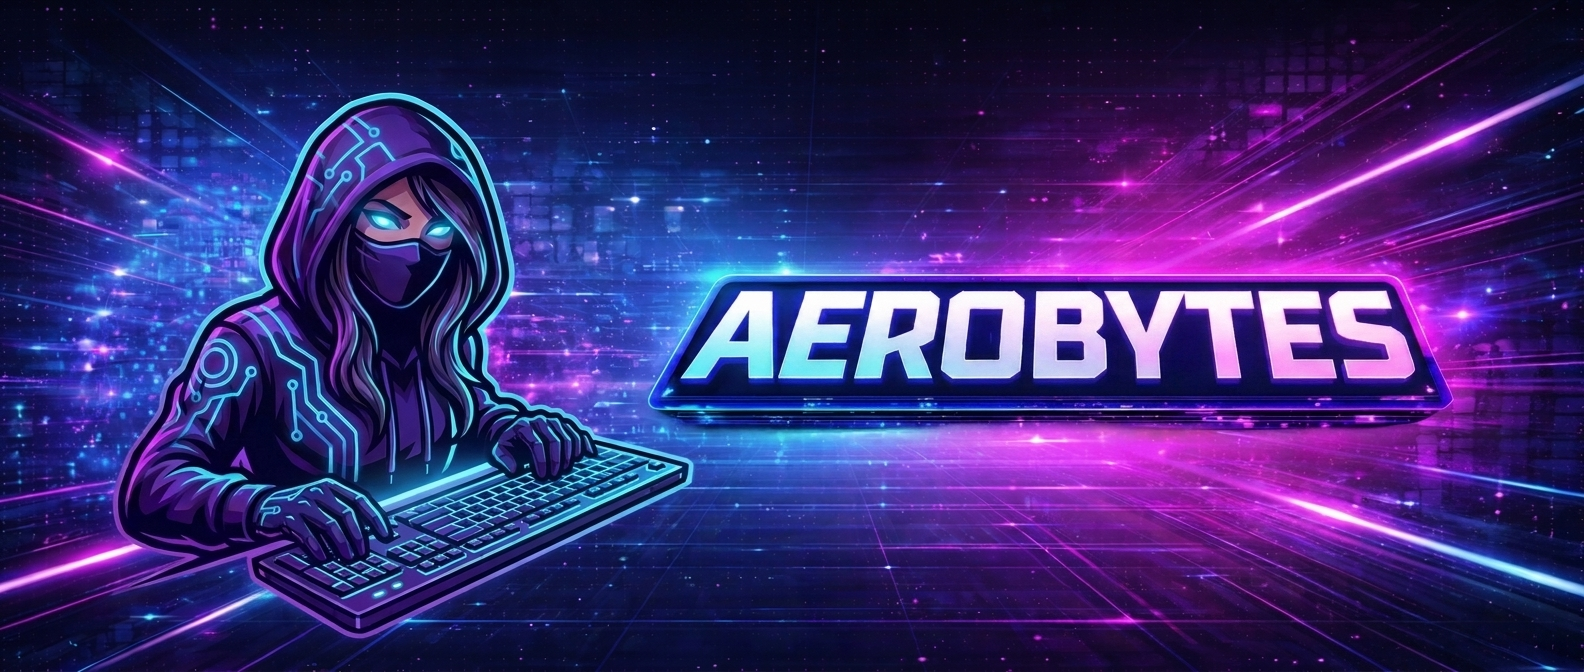
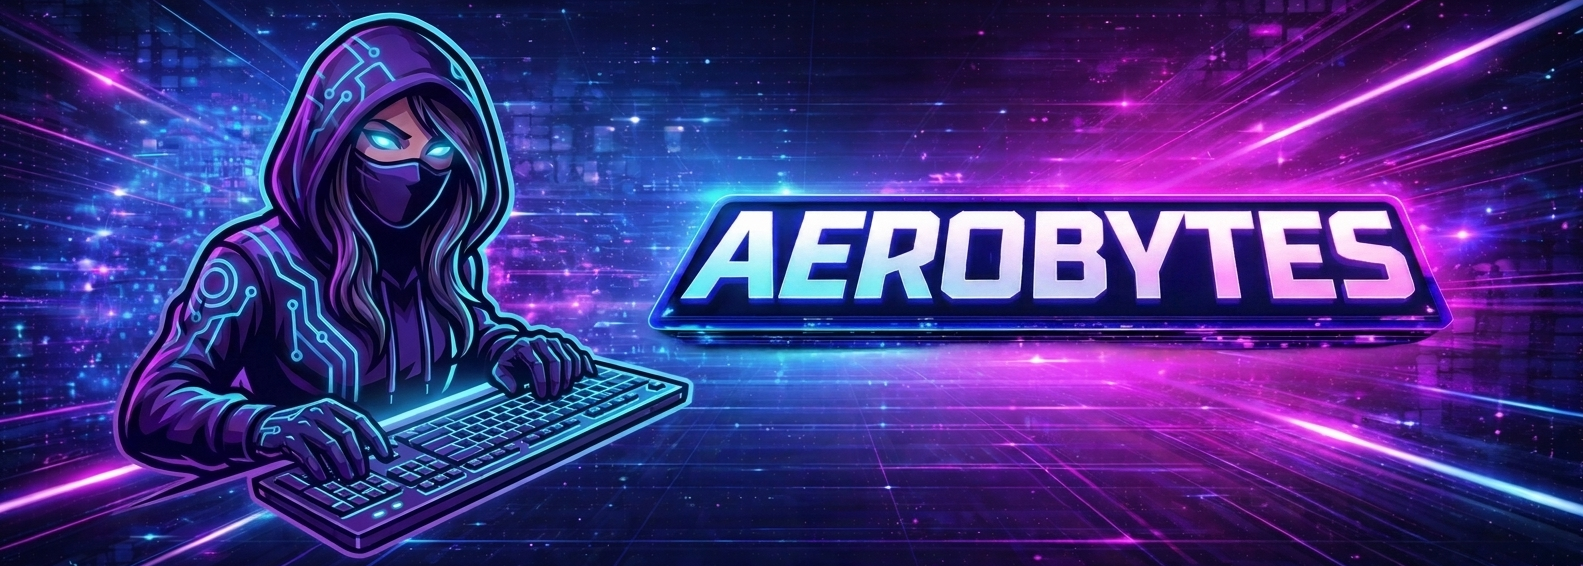
update

diff --git a/assets/css/style.css b/assets/css/style.css
@@ -181,9 +181,9 @@ body {
 }
 
 .hero-banner {
-    max-width: 1584px;
-    width: 95%;
-    aspect-ratio: 1584 / 672;
+    max-width: 1583px;
+    width: 90%;
+    height: 320px;
     z-index: 10;
     animation: fadeInDown 1s ease-out;
 }
